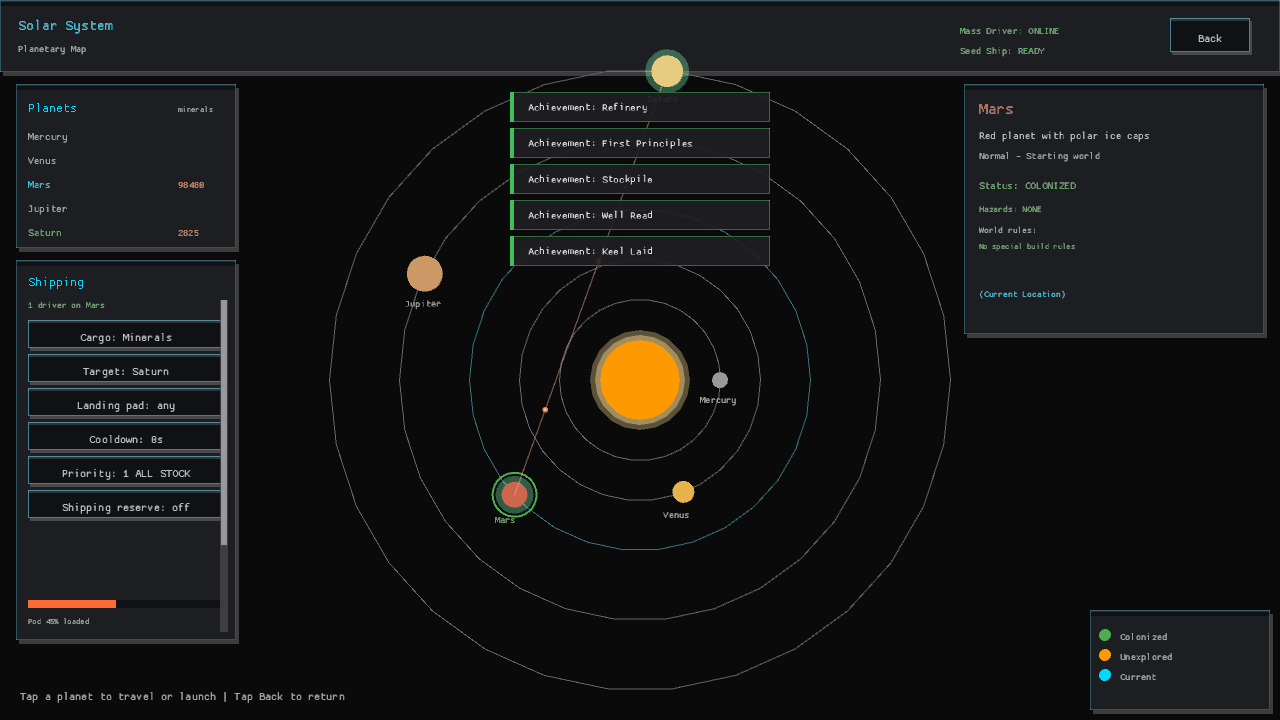
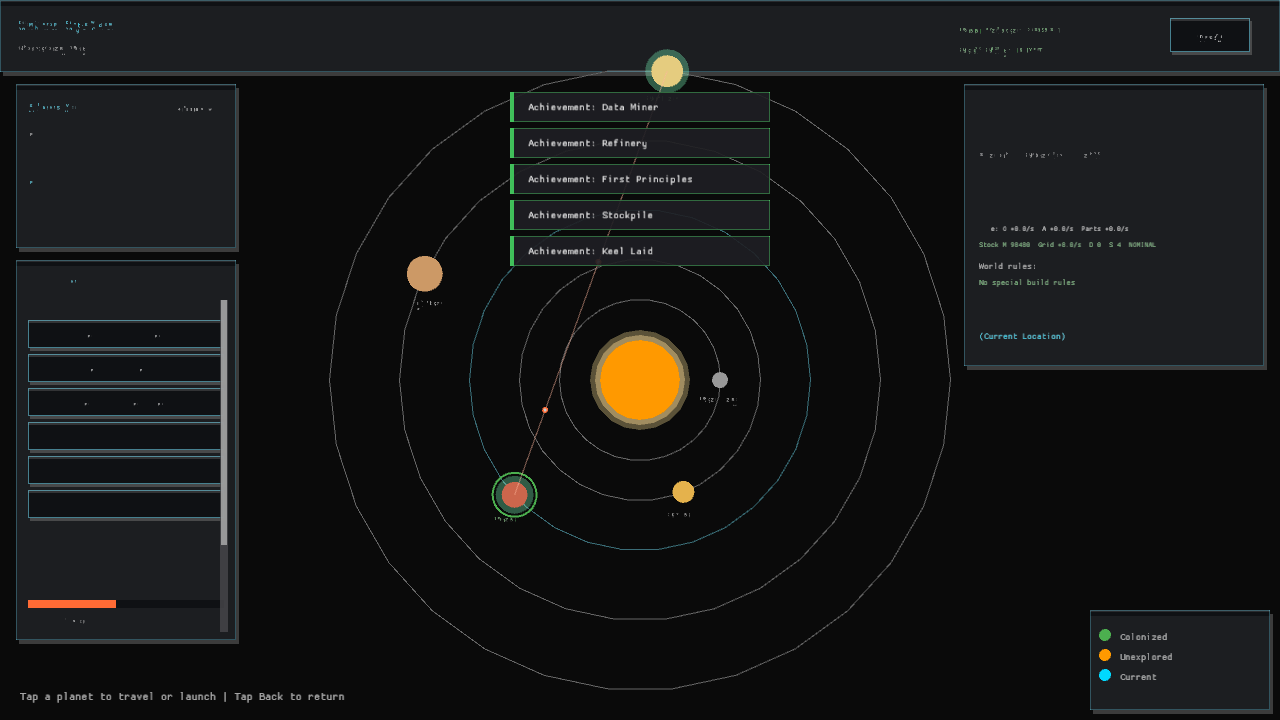
The solar dossier listens to worlds left behind (interplanetary telemetry, GDD 4)
The system map showed remote mineral stockpiles but left the player guessing whether those worlds were producing or failing. The campaign now exposes live observed output, power balance, drones, structures, and alert state for each colonized world, and the planet dossier presents that pulse before travel.

diff --git a/src/screens/interplanetary_view.rs b/src/screens/interplanetary_view.rs
@@ -2,7 +2,7 @@
 
 mod shipping_panel;
 
-use crate::state::{ExportOrder, Shipment};
+use crate::state::{ExportOrder, Shipment, WorldTelemetry};
 use crate::ui::{color_from_rgba, draw_button_sized, draw_panel, Colors, Dimensions};
 use macroquad::prelude::*;
 use macroquad_toolkit::ui::{draw_ui_text, note_neighbour, touch_area, Pointer, ScrollArea};
@@ -39,6 +39,8 @@ pub struct MapView<'a> {
     pub seed_ship_ready: bool,
     pub colonized: &'a [bool],
     pub stockpiles: &'a [Option<f32>],
+    /// Live snapshots for the worlds the swarm has already reached.
+    pub telemetry: &'a [Option<WorldTelemetry>],
     /// Powered Mass Drivers standing on the world underfoot.
     pub current_drivers_online: usize,
     /// Powered Mass Drivers on every colonized world, for remote order edits.
@@ -333,7 +335,7 @@ fn draw_planet_info(
     let is_current = index == view.current_planet;
 
     let panel_w = 300.0;
-    let panel_h = 250.0;
+    let panel_h = 282.0;
     let panel_x = screen_w - panel_w - 16.0;
     let panel_y = header_height + 12.0;
     draw_panel(panel_x, panel_y, panel_w, panel_h);
@@ -374,10 +376,17 @@ fn draw_planet_info(
         11.0,
         hazard_color(planet),
     );
+
+    let telemetry = view.telemetry.get(index).copied().flatten();
+    if let Some(telemetry) = telemetry {
+        draw_world_telemetry(&telemetry, panel_x + 15.0, panel_y + 147.0);
+    }
+
+    let rules_y = panel_y + if telemetry.is_some() { 185.0 } else { 149.0 };
     draw_ui_text(
         "World rules:",
         panel_x + 15.0,
-        panel_y + 149.0,
+        rules_y,
         11.0,
         Colors::TEXT_DIM,
     );
@@ -391,17 +400,18 @@ fn draw_planet_info(
         draw_ui_text(
             line,
             panel_x + 15.0,
-            panel_y + 165.0 + line_index as f32 * 16.0,
+            rules_y + 16.0 + line_index as f32 * 16.0,
             10.0,
             rules_color,
         );
     }
 
+    let action_y = panel_y + if telemetry.is_some() { 255.0 } else { 213.0 };
     if is_current {
         draw_ui_text(
             "(Current Location)",
             panel_x + 15.0,
-            panel_y + 213.0,
+            action_y,
             11.0,
             Colors::PRIMARY,
         );
@@ -409,7 +419,7 @@ fn draw_planet_info(
         draw_ui_text(
             "Tap to travel",
             panel_x + 15.0,
-            panel_y + 213.0,
+            action_y,
             12.0,
             Colors::PRIMARY,
         );
@@ -417,7 +427,7 @@ fn draw_planet_info(
         draw_ui_text(
             "Tap to launch the Seed Ship",
             panel_x + 15.0,
-            panel_y + 213.0,
+            action_y,
             12.0,
             Colors::SUCCESS,
         );
@@ -429,13 +439,7 @@ fn draw_planet_info(
         } else {
             "Requires: a finished Seed Ship"
         };
-        draw_ui_text(
-            blocker,
-            panel_x + 15.0,
-            panel_y + 213.0,
-            11.0,
-            Colors::ERROR,
-        );
+        draw_ui_text(blocker, panel_x + 15.0, action_y, 11.0, Colors::ERROR);
     }
 
     if !activated {
@@ -448,6 +452,38 @@ fn draw_planet_info(
     } else {
         None
     }
+}
+
+fn draw_world_telemetry(telemetry: &WorldTelemetry, x: f32, y: f32) {
+    draw_ui_text(
+        &format!(
+            "Live: O +{:.1}/s  A +{:.1}/s  Parts +{:.1}/s",
+            telemetry.ore_rate, telemetry.alloy_rate, telemetry.components_rate
+        ),
+        x,
+        y,
+        9.0,
+        Colors::TEXT,
+    );
+    let health = if telemetry.alerts == 0 {
+        ("NOMINAL", Colors::SUCCESS)
+    } else {
+        ("ALERT", Colors::ERROR)
+    };
+    draw_ui_text(
+        &format!(
+            "Stock M {:.0}  Grid {:+.1}/s  D {}  S {}  {}",
+            telemetry.minerals,
+            telemetry.power_balance,
+            telemetry.drones,
+            telemetry.structures,
+            health.0
+        ),
+        x,
+        y + 16.0,
+        9.0,
+        health.1,
+    );
 }
 
 fn hazard_summary(planet: &crate::data::PlanetDef) -> String {

diff --git a/src/state/campaign.rs b/src/state/campaign.rs
@@ -25,6 +25,22 @@ pub struct DirectiveRecord {
     pub tier: i32,
 }
 
+/// The small live dossier the Solar System map can show for every world the
+/// swarm has already reached. These are copied values rather than references
+/// so the map can assemble one stable snapshot while the campaign remains
+/// mutable behind the screen.
+#[derive(Debug, Clone, Copy, PartialEq)]
+pub struct WorldTelemetry {
+    pub minerals: f32,
+    pub ore_rate: f32,
+    pub alloy_rate: f32,
+    pub components_rate: f32,
+    pub power_balance: f32,
+    pub structures: usize,
+    pub drones: usize,
+    pub alerts: usize,
+}
+
 /// Step length for worlds the player is not looking at. Coarse on purpose: a
 /// left-behind world only has to keep producing, not animate.
 const BACKGROUND_TICK_SECONDS: f32 = 1.0;
@@ -232,6 +248,30 @@ impl Campaign {
             .get(index)
             .and_then(Option::as_ref)
             .map(|planet| planet.resources.minerals)
+    }
+
+    /// Read the operational pulse of a colonized world without travelling to
+    /// it. The map uses the same observed production windows as the planetary
+    /// HUD, so a background world can say that it is quiet or bottlenecked
+    /// rather than pretending its theoretical capacity is live output.
+    pub fn world_telemetry(&self, index: usize) -> Option<WorldTelemetry> {
+        let planet = self.planet(index)?;
+        let alerts = usize::from(planet.power_balance < 0.0)
+            + usize::from(planet.battery_seconds <= 0.0)
+            + usize::from(planet.power_collapse_shutdown > 0.0)
+            + usize::from(planet.stalled_drone_count() > 0)
+            + usize::from(!planet.starved_factories().is_empty())
+            + usize::from(!planet.blocked_factories().is_empty());
+        Some(WorldTelemetry {
+            minerals: planet.resources.minerals,
+            ore_rate: planet.throughput.last().unwrap_or(0.0),
+            alloy_rate: planet.observed_alloy_rate(),
+            components_rate: planet.observed_components_rate(),
+            power_balance: planet.power_balance,
+            structures: planet.grid.total_buildings(),
+            drones: planet.drones.total_count(),
+            alerts,
+        })
     }
 
     /// Enough has happened that the campaign is worth writing down.

diff --git a/src/state/campaign/tests.rs b/src/state/campaign/tests.rs
@@ -72,6 +72,27 @@ fn colonizing_twice_does_not_wipe_the_world() {
 }
 
 #[test]
+fn the_solar_map_reads_live_telemetry_for_colonized_worlds() {
+    let mut campaign = campaign();
+    assert!(campaign.world_telemetry(0).is_none());
+
+    assert!(campaign.colonize(0));
+    let fresh = campaign.world_telemetry(0).unwrap();
+    assert_eq!(fresh.minerals, 50.0);
+    assert_eq!(fresh.structures, 1);
+    assert_eq!(fresh.drones, 0);
+    assert_eq!(fresh.alerts, 0);
+
+    let mercury = campaign.planet_mut(0).unwrap();
+    mercury.resources.minerals = 123.0;
+    mercury.power_balance = -1.0;
+    let live = campaign.world_telemetry(0).unwrap();
+    assert_eq!(live.minerals, 123.0);
+    assert_eq!(live.power_balance, -1.0);
+    assert_eq!(live.alerts, 1);
+}
+
+#[test]
 fn every_world_is_built_from_its_own_entry_in_the_data() {
     let mut campaign = campaign();
     for index in 0..PLANET_COUNT {

diff --git a/src/main/update.rs b/src/main/update.rs
@@ -211,6 +211,8 @@ impl Game {
         self.advance_simulation();
         let stockpiles: [Option<f32>; state::PLANET_COUNT] =
             std::array::from_fn(|index| self.campaign.stockpile(index));
+        let telemetry: [Option<state::WorldTelemetry>; state::PLANET_COUNT] =
+            std::array::from_fn(|index| self.campaign.world_telemetry(index));
         let colonized = self.campaign.colonized_flags();
         let pads: [usize; state::PLANET_COUNT] = std::array::from_fn(|index| {
             self.campaign
@@ -252,6 +254,7 @@ impl Game {
             seed_ship_ready,
             colonized: &colonized,
             stockpiles: &stockpiles,
+            telemetry: &telemetry,
             current_drivers_online: drivers_online[current_world],
             drivers_online: &drivers_online,
             pads: &pads,

diff --git a/README.md b/README.md
@@ -16,6 +16,8 @@ The swarm is powerful, but every expansion changes the terrain, stresses the gri
   green buffer radius on the map.
 - Research upgrades and prepare for interplanetary expansion.
 - Manage dust, power failures, and resource bottlenecks.
+- Read each colonized world's live output, power balance, workforce, and alert
+  state from the Solar System dossier before travelling there.
 
 ## Goal
 
